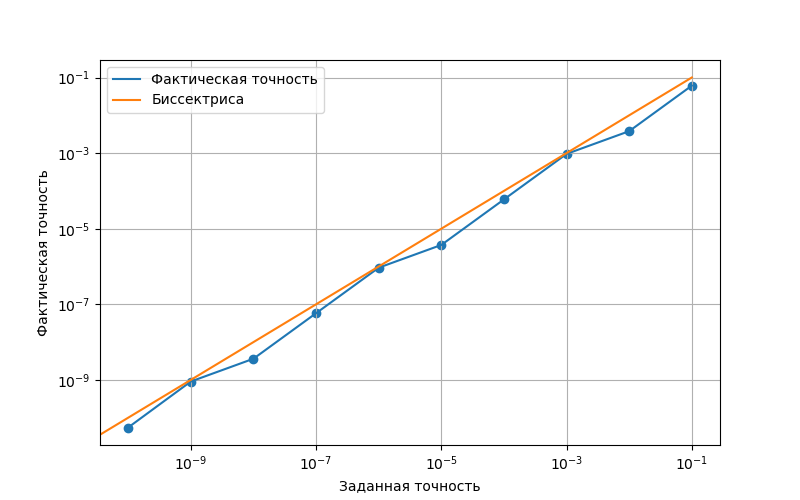
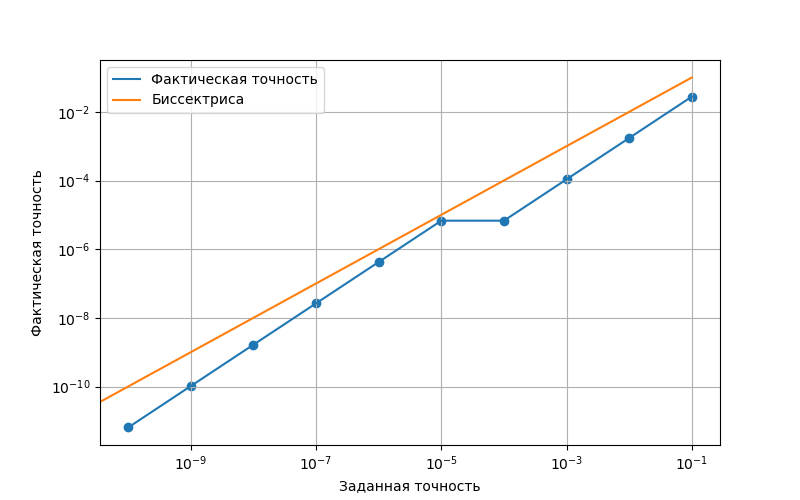
simson

diff --git a/lab3/main.cpp b/lab3/main.cpp
@@ -42,22 +42,40 @@ double TrapezoidFormula(double a, double b, double (*fun)(double x), int rang){
     return res;
 }
 
+double Simpson(double a, double b, double (*fun)(double x), int rang){
+    double res = 0;
+    double step = (b - a)/(double)rang;
+    double current_a = a;
+    double current_b = a + step;
+    for(int n = 0; n <  rang; n++){
+
+        current_a =  a + step * n;
+        current_b =  a + step + n*step;
+        res += (current_b - current_a)/6.0 * (fun( current_a) + 4 * fun(( current_a+current_b )/2.0) + fun(current_b ));
+
+    }
+
+    h_3q = step;
+
+    return res;
+}
+
 bool RungeRule(double Sn, double S2n ,double eps){
-    return fabs(S2n - Sn) / 3.0 < eps;
+    return (fabs(S2n - Sn) / 15.0) < eps;
 }
 
 double Integrate(double a, double b, double (*fun)(double x), double eps){
     int n1 = 1;
     int n2 = 2;
 
-    double result = TrapezoidFormula(a,b,fun,n2);
-    double check = TrapezoidFormula(a,b,fun,n1);
+    double result = Simpson(a,b,fun,n2);
+    double check = Simpson(a,b,fun,n1);
     while (!RungeRule(check,result,eps))
     {
         n1 *= 2;
         n2 *= 2;
         check = result;
-        result = TrapezoidFormula(a,b,fun,n2);
+        result = Simpson(a,b,fun,n2);
     }
 
     N_2q = n2;
@@ -112,9 +130,9 @@ void Test3(){
     ofstream out;
     out.open(PATH"3q.txt");
 
-    for(int i = 1; i <= 100000; i *= 2){
+    for(int i = 1; i <= 2048; i *= 2){
 
-        double res = TrapezoidFormula(a,b,function,i); 
+        double res = Simpson(a,b,function,i); 
         double err = fabs(res - integrall(a,b) );
 
         out << h_3q << ' ' << err << endl;
@@ -127,6 +145,8 @@ void Test3(){
 int main(){
     
 
+    Test1();
+    Test2();
     Test3();
 
     return 0;

diff --git a/lab3/graph3.py b/lab3/graph3.py
@@ -13,7 +13,7 @@ with open('data/3q.txt') as f:
 plt.scatter(x,y)
 amm, = plt.plot(x,y)
 
-line, = plt.plot(x,[k**2 for k in x])
+line, = plt.plot(x,[k**4 for k in x])
 
 plt.grid()
 
